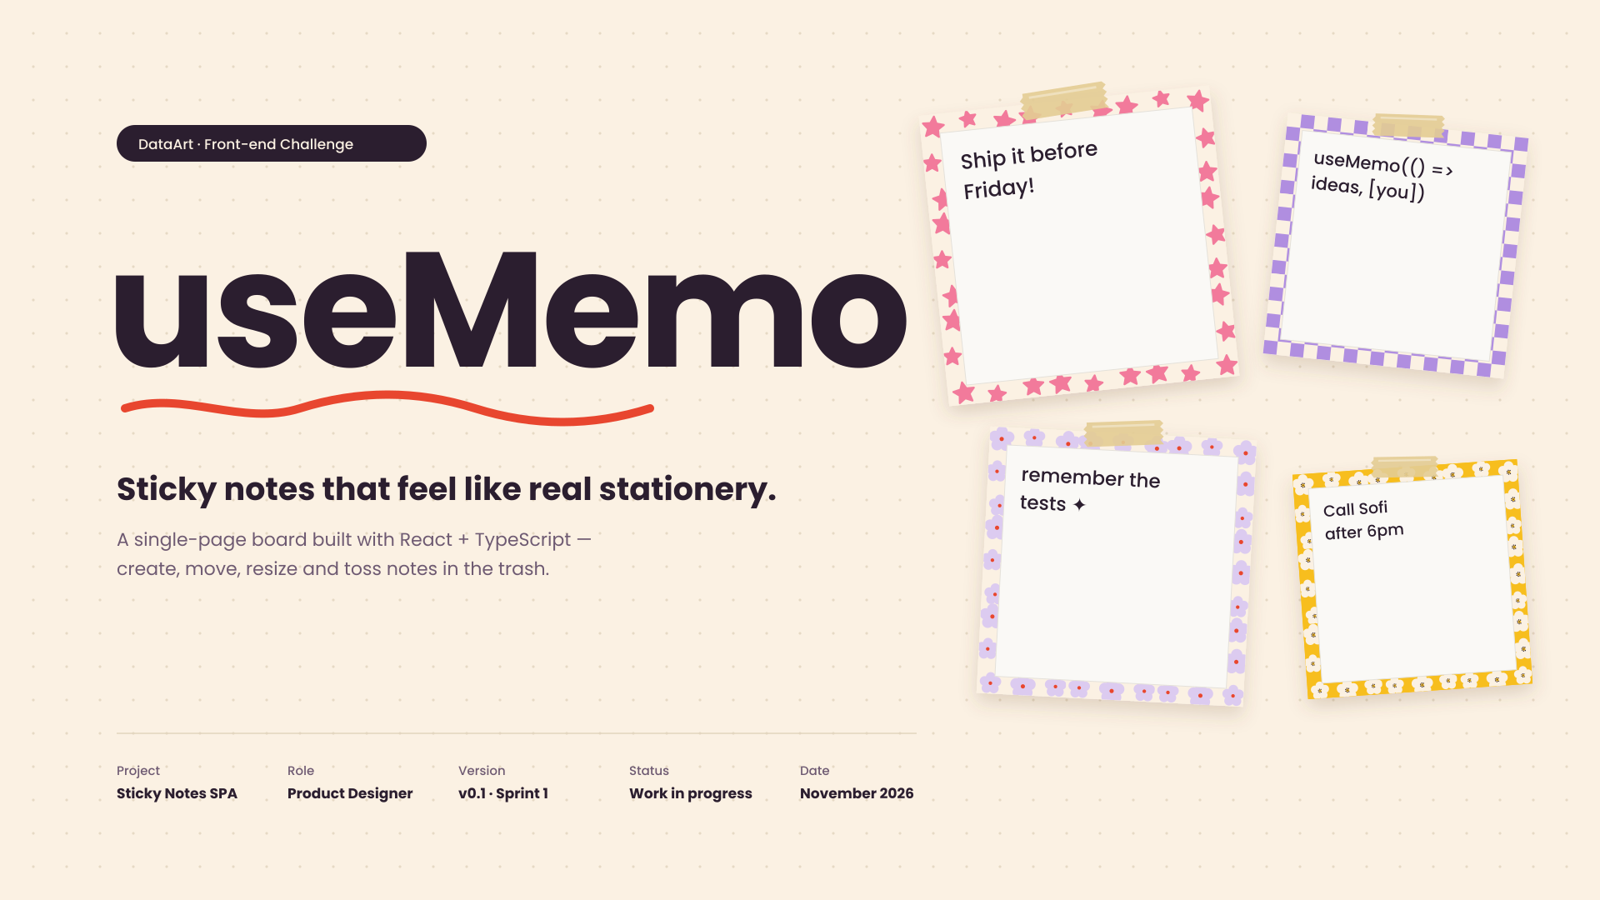
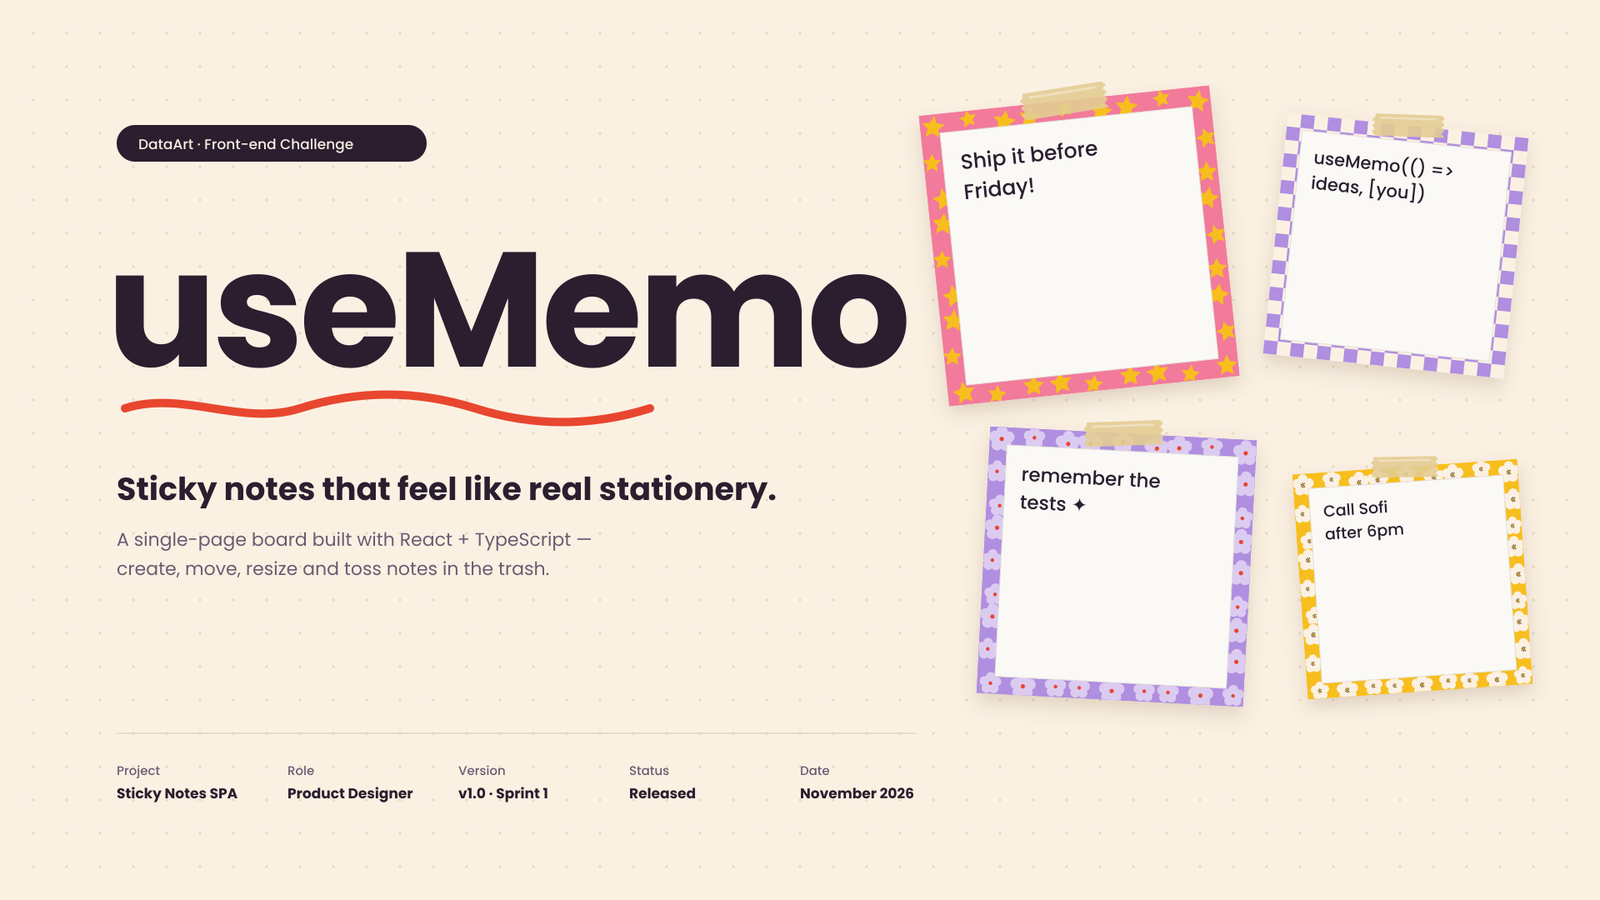
chore(release): v1.0.0
- Bump the version to 1.0.0 and add CHANGELOG.md with the Sprint 1
  features, quality work and docs
- Link the live demo (usememo-three.vercel.app) and the changelog in the
  README
- Use absolute OpenGraph and Twitter image URLs and add og:url
- Refresh the README cover and the OpenGraph image with the new pattern
  colors and the v1.0 release status

diff --git a/index.html b/index.html
@@ -13,15 +13,16 @@
     <link rel="apple-touch-icon" href="/apple-touch-icon.png" />
 
     <meta property="og:type" content="website" />
+    <meta property="og:url" content="https://usememo-three.vercel.app/" />
     <meta property="og:title" content="useMemo — Sticky notes" />
     <meta property="og:description" content="Sticky notes that feel like real stationery." />
-    <meta property="og:image" content="/og-image.png" />
+    <meta property="og:image" content="https://usememo-three.vercel.app/og-image.png" />
     <meta property="og:image:width" content="1200" />
     <meta property="og:image:height" content="630" />
     <meta name="twitter:card" content="summary_large_image" />
     <meta name="twitter:title" content="useMemo — Sticky notes" />
     <meta name="twitter:description" content="Sticky notes that feel like real stationery." />
-    <meta name="twitter:image" content="/og-image.png" />
+    <meta name="twitter:image" content="https://usememo-three.vercel.app/og-image.png" />
 
     <link rel="preconnect" href="https://fonts.googleapis.com" />
     <link rel="preconnect" href="https://fonts.gstatic.com" crossorigin />

diff --git a/CHANGELOG.md b/CHANGELOG.md
@@ -1,0 +1,32 @@
+# Changelog
+
+All notable changes to this project are documented here. The project follows [Semantic Versioning](https://semver.org/).
+
+## [1.0.0] – 2026-11-24
+
+First release of useMemo, the result of Sprint 1 of the DataArt Front-end Challenge. Live at [usememo-three.vercel.app](https://usememo-three.vercel.app).
+
+### Core features
+
+- **Create** a note of a chosen size at a chosen position by drawing on the board; a single click creates a 200×200 note (DCU-7).
+- **Resize** a note by dragging its corner, between 100×80 and 600×600 (DCU-8).
+- **Move** a note by dragging it, always inside the board (DCU-9).
+- **Delete** a note by dropping it on the trash zone, or with the Delete key (DCU-10).
+
+### Bonus features
+
+- **Text:** write and edit the text of a note; the text scales with the note from 14 to 24px (DCU-11).
+- **Bring to front:** the note you press or focus moves on top of the others (DCU-12).
+- **Saving:** notes are saved in `localStorage` and restored on reload, with the save status in the header (DCU-13).
+- **Patterns:** 8 printed patterns, chosen per note or for new notes in the dock (DCU-14).
+
+### Quality
+
+- Unit tests for utils, services, store and hooks, with 80% coverage enforced (DCU-17).
+- Integration tests that run the whole app with `localStorage` (DCU-18).
+- Playwright end-to-end tests in Chrome, Firefox and Edge, at 1440×900 and 1024×768 (DCU-20).
+- GitHub Actions on every push: lint, typecheck, tests with coverage and e2e.
+
+### Docs
+
+- [Architecture](docs/ARCHITECTURE.md), [RFC](docs/RFC.md), [PRD](docs/PRD.md) and a complete README (DCU-19, DCU-21).

diff --git a/README.md b/README.md
@@ -10,12 +10,13 @@ A single-page sticky notes board built with **React + TypeScript** for the DataA
 
 | Resource              | Link                                                                                                           |
 | --------------------- | -------------------------------------------------------------------------------------------------------------- |
-| Live demo (Vercel)    | _Coming soon — deployed from `main`_                                                                           |
+| Live demo (Vercel)    | [usememo-three.vercel.app](https://usememo-three.vercel.app) — deployed from `main`                            |
 | Figma                 | [DataArt Challenge - useMemo](https://www.figma.com/design/pVCvK8DkzvEhO6kNmw5EnQ/DataArt-Challenge---useMemo) |
 | Jira board (Sprint 1) | [DCU board](https://marinaziembar-team.atlassian.net/jira/software/projects/DCU/boards/2)                      |
 | PRD                   | [docs/PRD.md](docs/PRD.md) · [DCU-2 in Jira](https://marinaziembar-team.atlassian.net/browse/DCU-2)            |
 | RFC                   | [docs/RFC.md](docs/RFC.md) · [DCU-1 in Jira](https://marinaziembar-team.atlassian.net/browse/DCU-1)            |
 | Architecture          | [docs/ARCHITECTURE.md](docs/ARCHITECTURE.md)                                                                   |
+| Changelog             | [CHANGELOG.md](CHANGELOG.md)                                                                                   |
 
 ## Features
 
